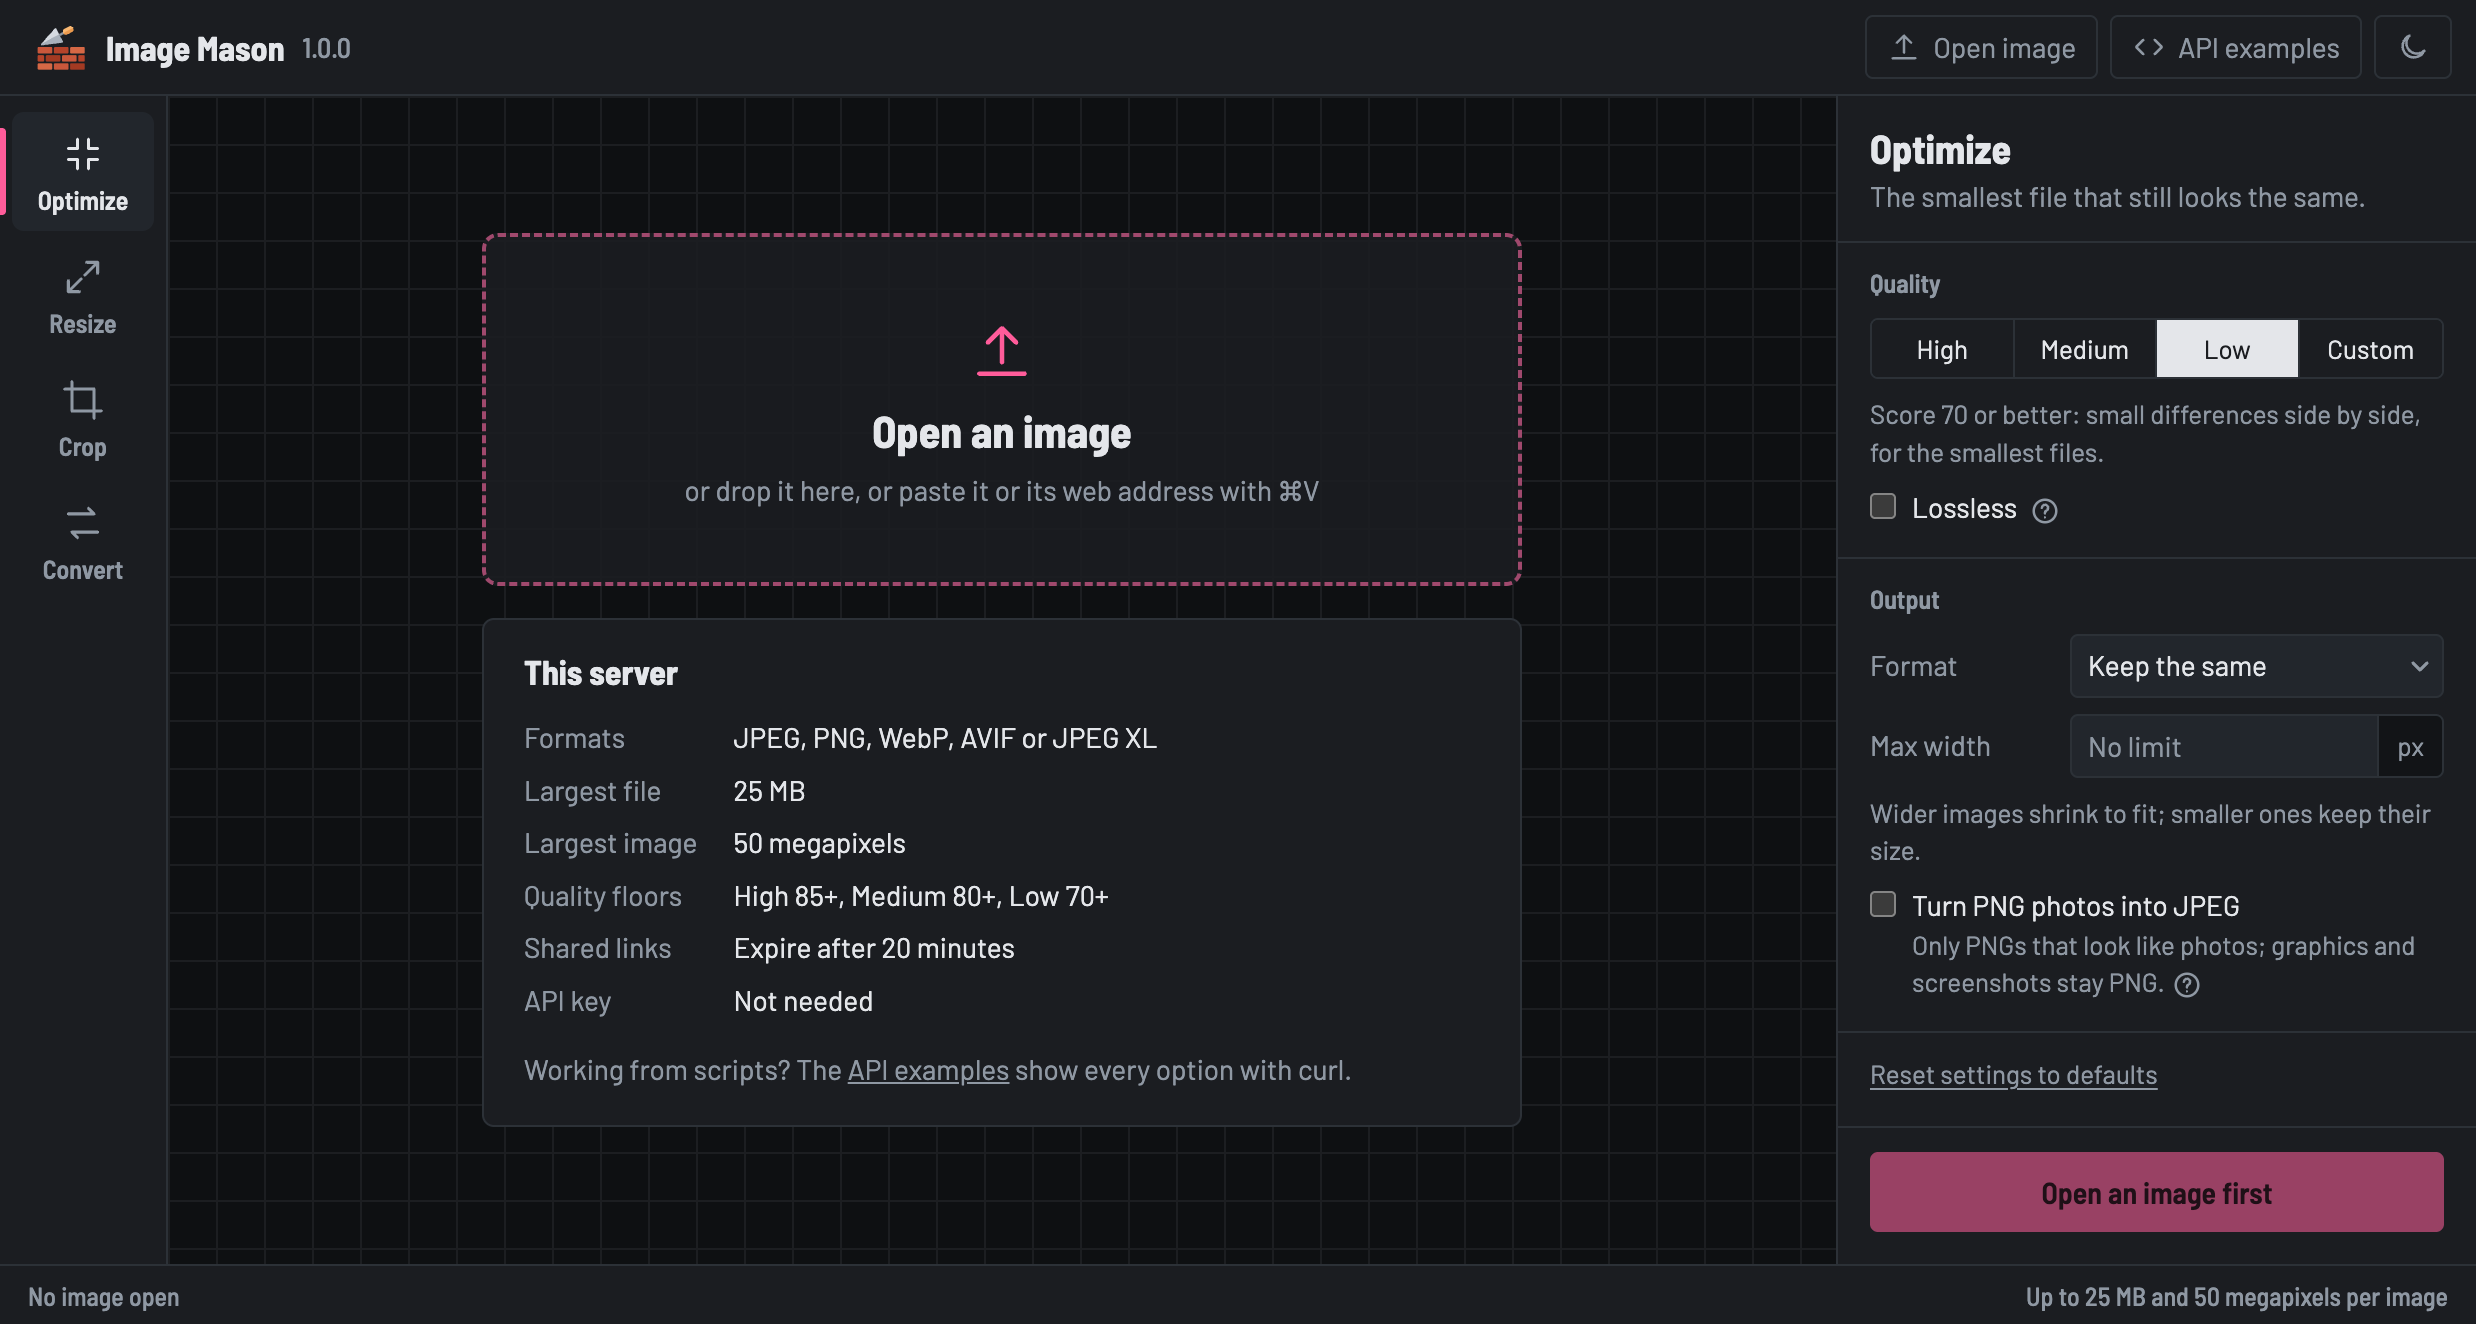
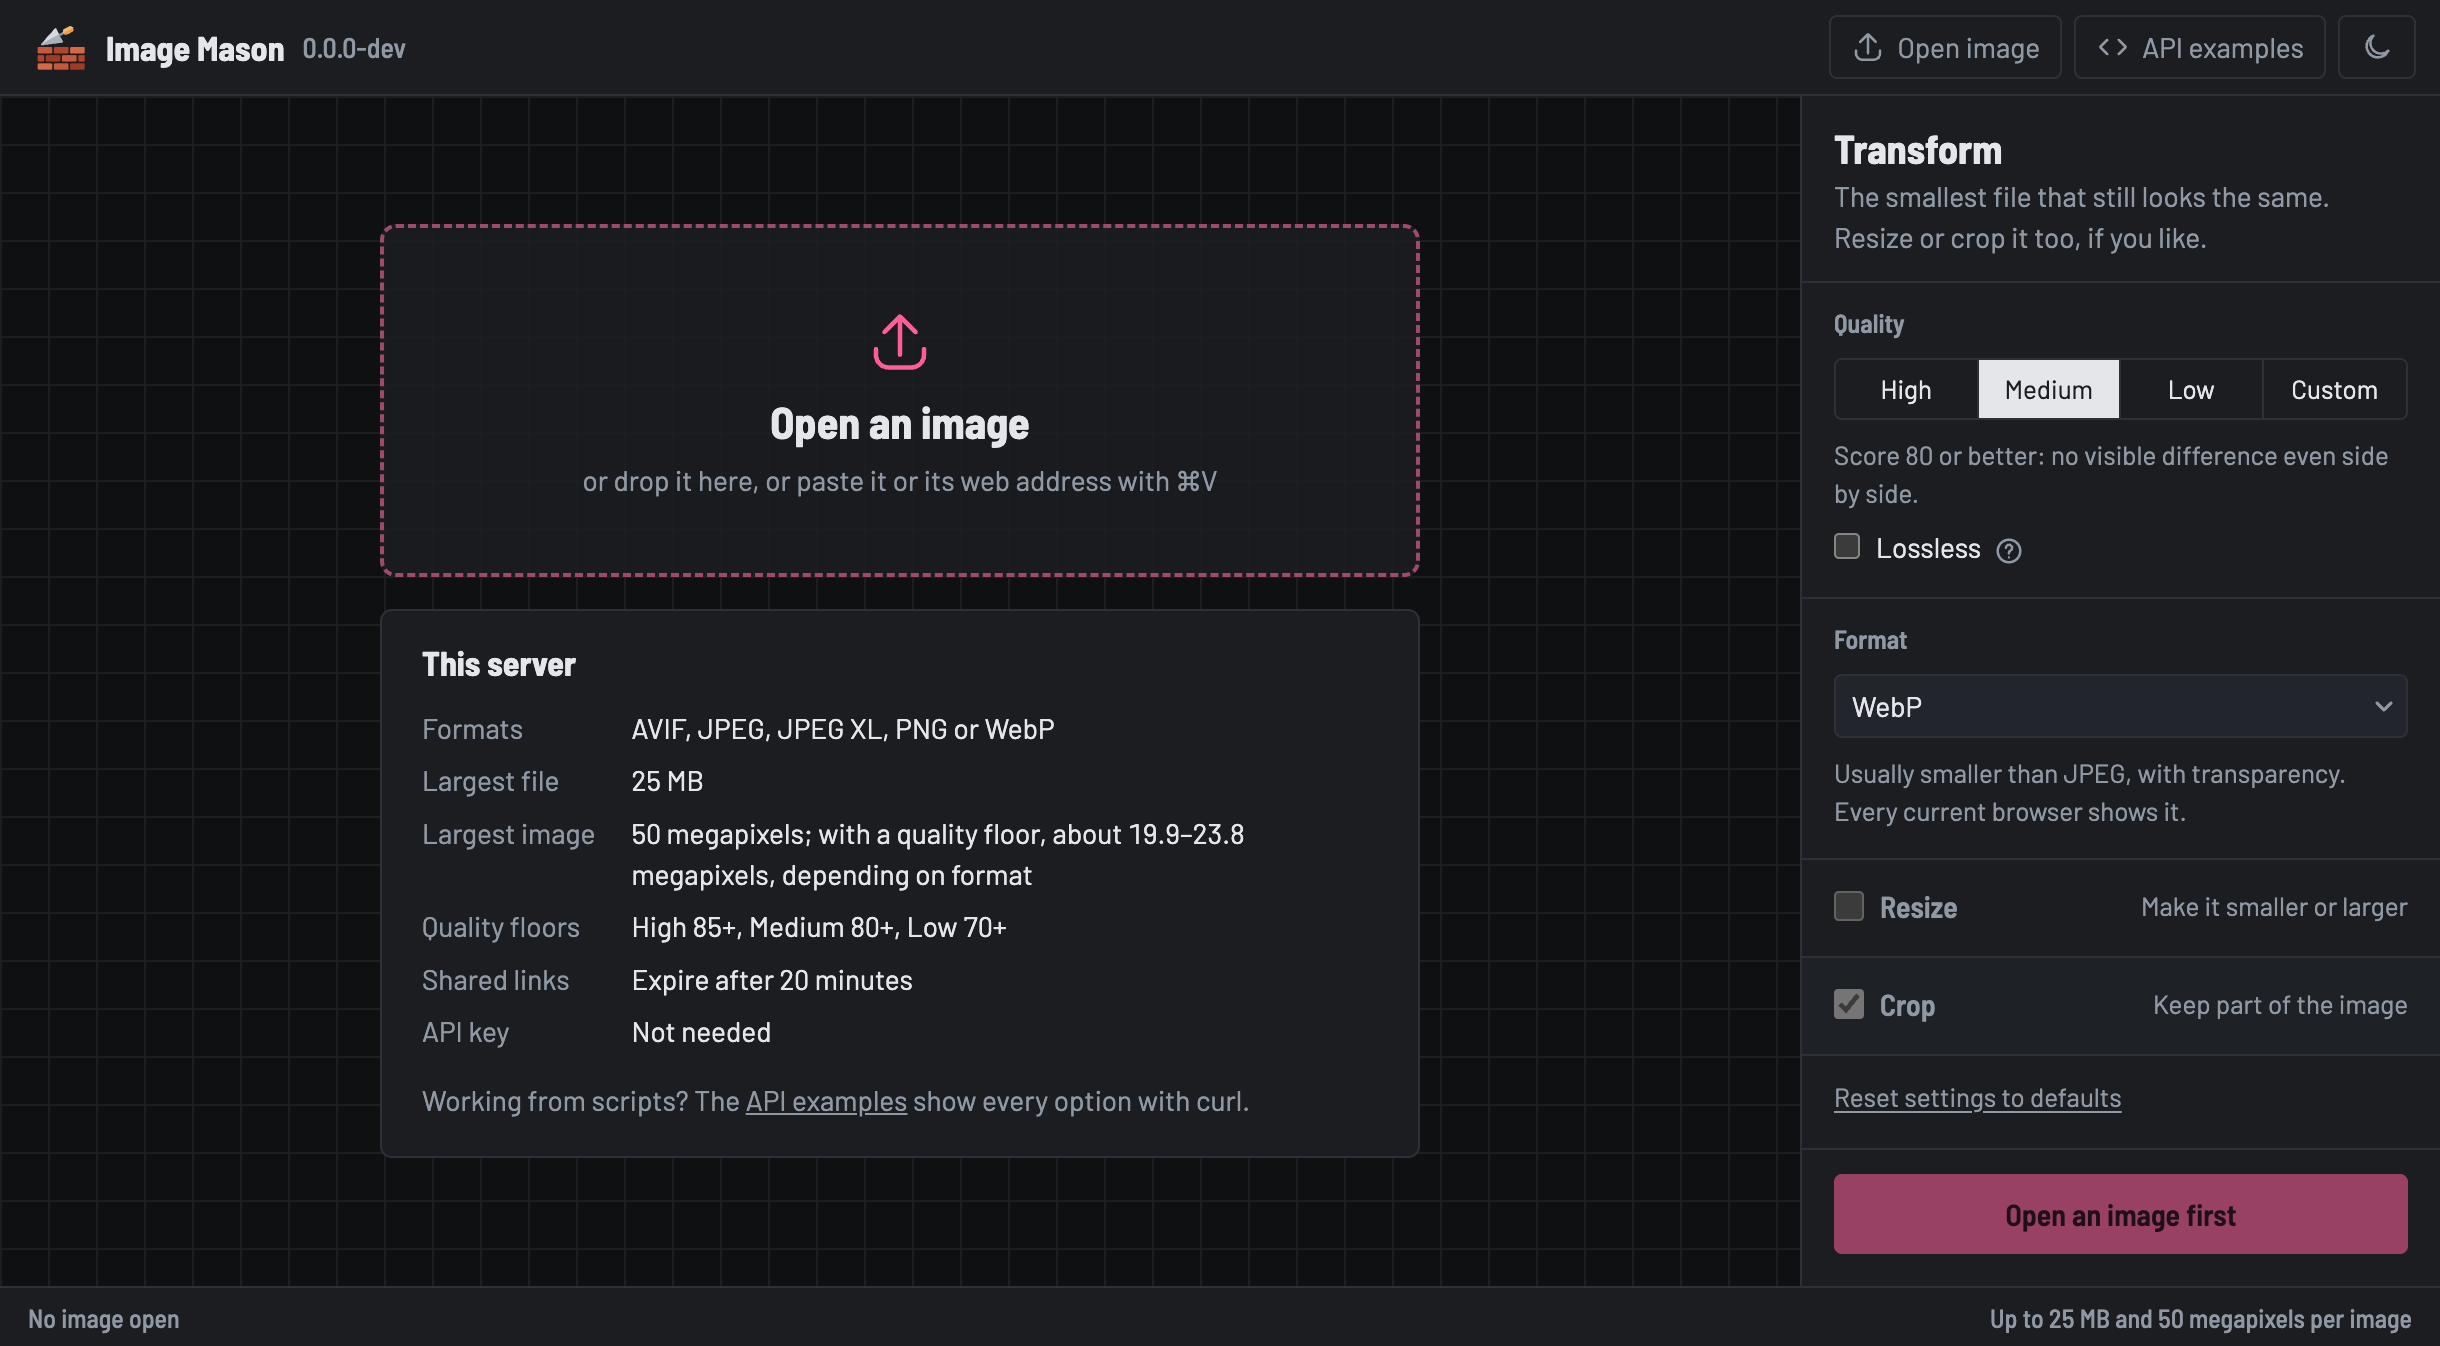
Release 0.4.0

diff --git a/CHANGELOG.md b/CHANGELOG.md
@@ -2,6 +2,8 @@
 
 ## [Unreleased]
 
+## [0.4.0] - 2026-10-28
+
 ### Changed
 
 - **Breaking:** one job endpoint, `POST /api/v1/transform`, replaces `optimize`, `convert`, `resize` and `crop`. It takes the parameters they shared, and every result is still optimized.
@@ -28,8 +30,8 @@
 
 ### Removed
 
-- `maxWidth`: send `width` instead, which also shrinks wider images and never enlarges smaller ones.
-- `IMAGE_MASON_DEFAULT_MAX_WIDTH`: results are resized only when a request sends `width` or `height`. `GET /api/v1/limits` no longer reports `defaultMaxWidth`.
+- **Breaking:** `maxWidth`: send `width` instead, which also shrinks wider images and never enlarges smaller ones.
+- **Breaking:** `IMAGE_MASON_DEFAULT_MAX_WIDTH`: results are resized only when a request sends `width` or `height`. `GET /api/v1/limits` no longer reports `defaultMaxWidth`.
 
 ### Fixed
 
@@ -115,7 +117,8 @@
 - Memory admission control that sizes each job before it starts, so large images wait or are rejected instead of running the container out of memory.
 - Errors returned as RFC 9457 Problem Details.
 
-[Unreleased]: https://github.com/dmhendricks/image-mason/compare/v0.3.0...HEAD
+[Unreleased]: https://github.com/dmhendricks/image-mason/compare/v0.4.0...HEAD
+[0.4.0]: https://github.com/dmhendricks/image-mason/compare/v0.3.0...v0.4.0
 [0.3.0]: https://github.com/dmhendricks/image-mason/compare/v0.2.1...v0.3.0
 [0.2.1]: https://github.com/dmhendricks/image-mason/compare/v0.2.0...v0.2.1
 [0.2.0]: https://github.com/dmhendricks/image-mason/compare/v0.1.0...v0.2.0

diff --git a/README.md b/README.md
@@ -63,8 +63,8 @@ The sample Compose file runs the container read-only with a 4 GB memory limit an
 | Tag | Meaning |
 |---|---|
 | `latest` | The newest release |
-| `0.3` | The newest `0.3.x` release |
-| `0.3.0` | An exact release |
+| `0.4` | The newest `0.4.x` release |
+| `0.4.0` | An exact release |
 
 ## Usage
 
